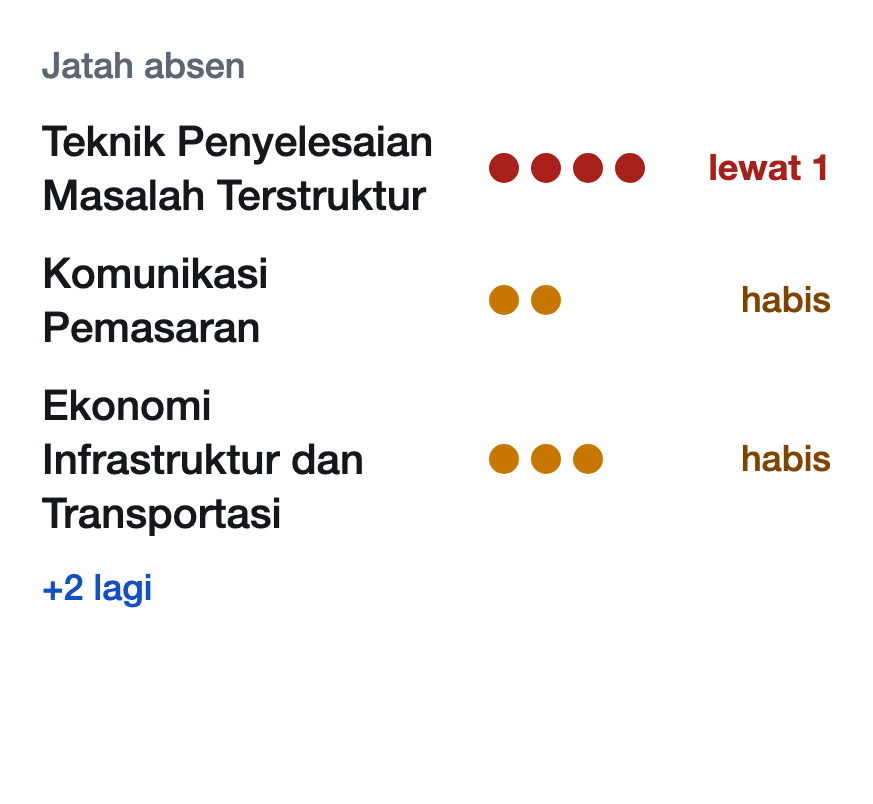
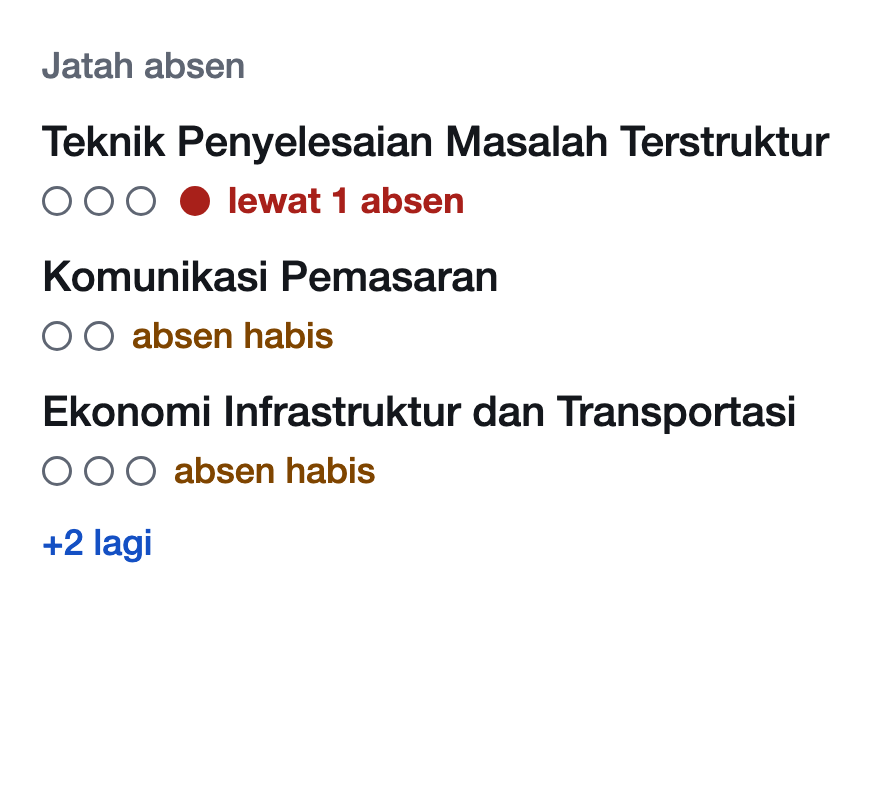
fix(widgets): Tenggat stops at three cells, every course keeps its row in Jatah absen, and the docs say seven
A Tenggat title that would be cut takes a second line where there is height left. Beside its dots a course's name keeps one line. The picker pictures are drawn again, and the decisions page states the one dot rule.

diff --git a/mobile/src/widget/views.tsx b/mobile/src/widget/views.tsx
@@ -77,6 +77,16 @@ export function DueView({ model, size, theme, lang }: { model: DueWidget; size: 
     space -= heightOf(row, most);
   }
   const left = model.rows.length - rows.length;
+  // Height left over goes to a title that would be cut: its second line.
+  const extra = new Set<DueRow>();
+  let spare = space - (left > 0 ? moreHeight : 0);
+  for (const row of rows) {
+    if (linesOf(row.title, 14 * scale, titleWidth) > linesFor(row, most) && spare >= LINE.small * scale) {
+      extra.add(row);
+      spare -= LINE.small * scale;
+    }
+  }
+  const shownLines = (row: DueRow) => linesFor(row, most) + (extra.has(row) ? 1 : 0);
   // Close is loud, far is quiet: amber within a day, the ink while it's a count of days, grey once it's only a date.
   const inkOf = (row: DueRow) => (row.soon || row.mark === "today" ? v.ambFg : v.fg);
   return (
@@ -90,9 +100,16 @@ export function DueView({ model, size, theme, lang }: { model: DueWidget; size: 
             accessibilityLabel={`${row.title}, ${row.name ?? row.code}, ${row.when}`}
             style={{ width: "match_parent", flexDirection: "row", alignItems: "center", flexGap: 8 }}
           >
-            <FlexWidget style={{ width: 4, height: heightOf(row, most) - 8, borderRadius: 2, backgroundColor: hex(courseInk(theme, row.tone)) }} />
+            <FlexWidget
+              style={{
+                width: 4,
+                height: heightOf(row, most) - 8 + (extra.has(row) ? LINE.small * scale : 0),
+                borderRadius: 2,
+                backgroundColor: hex(courseInk(theme, row.tone)),
+              }}
+            />
             <FlexWidget style={{ flex: 1, flexDirection: "column" }}>
-              <Text text={row.title} size="small" color={v.fg} weight="700" lines={linesFor(row, most)} />
+              <Text text={row.title} size="small" color={v.fg} weight="700" lines={shownLines(row)} />
               {wide ? <Text text={courseOf(row)} size="micro" color={v.muted} /> : <Text text={underOf(row)} size="micro" color={inkOf(row)} bold />}
             </FlexWidget>
             {wide ? (
@@ -151,7 +168,6 @@ function Dots({
     const used = past || index < (row.used ?? 0);
     return (
       <FlexWidget
-        // biome-ignore lint/suspicious/noArrayIndexKey: the dots are positions, nothing else tells them apart.
         key={index}
         style={{
           width: size,
@@ -194,19 +210,24 @@ export function AttendanceView({ model, size, theme, lang }: { model: Attendance
   // (The last line has no gap under it: 8 back.)
   const room = counted + 8;
   // Narrow (2 cells): the name over its dots and its word. Wider: the name, the dots in one column, the word at the end.
-  const narrow = size.width < 220;
+  const thin = size.width < 220;
   const drawn = (row: AttendanceRow) => row.allowed !== null && row.allowed + row.over <= MOST_DOTS && row.allowed + row.over > 0;
   const dotsWidth = Math.max(
     0,
     ...model.rows.filter(drawn).map((row) => ((row.allowed ?? 0) + row.over) * 14 - 4 + (row.over > 0 && (row.allowed ?? 0) > 0 ? OVER_GAP - 4 : 0)),
   );
   const wordWidth = Math.max(0, ...model.rows.map((row) => safeWidth(row.short, 12 * scale)));
-  const nameWidth = narrow ? size.width - 2 * PAD : size.width - 2 * PAD - dotsWidth - 10 - wordWidth - 10;
+  const beside = size.width - 2 * PAD - dotsWidth - 10 - wordWidth - 10;
+  // (Big text: the name's column would hold four letters, so the name goes over its dots as in two cells.)
+  const narrow = thin || beside < 96 * scale;
+  const nameWidth = narrow ? size.width - 2 * PAD : beside;
   // Names down the whole list (wrapped where one line doesn't hold it), or codes down the whole list: never a mix.
   // (The phone's text made big: two lines at most, where the estimate of a third is least sure.)
   const most = scale > 1 ? 2 : 3;
   const codes = model.rows.some((row) => courseLabel(row.name, row.code, 14 * scale, nameWidth, most).text !== (row.name ?? row.code));
-  const labelOf = (row: AttendanceRow) => (codes ? { text: row.code, lines: 1 } : courseLabel(row.name, row.code, 14 * scale, nameWidth, most));
+  // Beside the dots, a name that doesn't fit whole keeps one line and ends on "…": every course still gets its row.
+  const labelOf = (row: AttendanceRow) =>
+    codes ? { text: narrow ? row.code : (row.name ?? row.code), lines: 1 } : courseLabel(row.name, row.code, 14 * scale, nameWidth, most);
   const heightOf = (row: AttendanceRow) => labelOf(row).lines * LINE.small * scale + (narrow ? LINE.micro * scale + 3 : 0) + 8;
   const moreHeight = (LINE.micro + 8) * scale;
   const rows: AttendanceRow[] = [];

diff --git a/test/mobile/widget-drawings.test.tsx b/test/mobile/widget-drawings.test.tsx
@@ -197,7 +197,7 @@ const RENDER: Record<string, { title: string; sizes: ReturnType<typeof phone>[];
   Now: { title: "Sekarang", sizes: [phone(2, 1), phone(4, 1), phone(4, 2), phone(4, 3)], first: "4×2" },
   Exam: { title: "Ujian", sizes: [phone(2, 1), phone(3, 1), phone(4, 1)], first: "2×1" },
   Today: { title: "Hari ini", sizes: [phone(2, 2), phone(3, 2), phone(4, 2)], first: "3×2" },
-  Due: { title: "Tenggat", sizes: [phone(2, 2), phone(3, 2), phone(4, 2)], first: "3×2" },
+  Due: { title: "Tenggat", sizes: [phone(2, 2), phone(3, 2)], first: "3×2" },
   Attendance: { title: "Jatah absen", sizes: [phone(2, 2), phone(3, 2), phone(4, 2)], first: "3×2" },
   Next: { title: "Kelas berikutnya", sizes: [phone(1, 1), phone(2, 1)], first: "1×1" },
   Course: { title: "Satu mata kuliah", sizes: [phone(3, 1), phone(3, 2)], first: "3×1" },

diff --git a/mobile/app.config.ts b/mobile/app.config.ts
@@ -59,7 +59,8 @@ const WIDGETS = [
     targetCellHeight: 2,
     minResizeWidth: "110dp",
     minResizeHeight: "110dp",
-    maxResizeWidth: "530dp",
+    // Three cells at most: wider, the list is the same rows with an empty middle.
+    maxResizeWidth: "320dp",
     maxResizeHeight: "280dp",
     resizeMode: "horizontal|vertical",
     updatePeriodMillis: HALF_HOUR,

diff --git a/mobile/qa/superapp-widgets.md b/mobile/qa/superapp-widgets.md
@@ -1,11 +1,11 @@
 # Home-screen widgets: what a student would put there
 
-Eight widgets, each answering one question at a glance, all drawn from what the app already saved (no new
+Seven widgets, each answering one question at a glance, all drawn from what the app already saved (no new
 requests, no new data). Declared natively in `mobile/app.config.ts`; drawn by `mobile/src/widget/`; picker pictures
 made by `mobile/scripts/make-widget-previews.mjs` (`assets/widget-preview-<name>.png`).
 
 Sizes are in launcher cells (w×h). "Min" is the smallest it can be made, "first" what it's placed at, "max" the
-largest. All eight resize both ways. Every tap below is a deep link the app already handles
+largest. All seven resize both ways. Every tap below is a deep link the app already handles
 (`edunexplus://…`, `src/nav.ts`), except Tandai Hadir (SIX's own page, through `check-in/<id>`) and Presensi
 (Edunex's page in the browser).
 
@@ -25,7 +25,7 @@ wrong.
 
 Where this section and the older ones below disagree, this one is right.
 
-**States that are true.** Signed out, empty and holiday are one layout on all eight (`StateCard` in `src/widget/view.tsx`,
+**States that are true.** Signed out, empty and holiday are one layout on all seven (`StateCard` in `src/widget/view.tsx`,
 fed by each model's `quiet`): the widget's own name, one sentence, one thing to tap in the only blue ("Masuk", "Buka
 Jadwal"). One cell: the sentence's two words ("Libur", "Belum masuk"). A holiday says "Libur". Offline is one line on
 every widget and size, "Tidak terhubung · data 08:12" (amber; `status.offline`), and "Sekarang" then draws no button:
@@ -53,7 +53,6 @@ figures (a class ending, a deadline passing or coming within the week, midnight)
 | Jatah absen (was "Kehadiran") | 2×2 | 3×2 | 4×3 | every course |
 | Ujian | 2×1 | 2×1 | 4×2 | the exams after the next |
 | Kelas berikutnya | 1×1 | 1×1 | 2×1 | the course's name and room |
-| Pintasan | 2×1 | 4×1 | 4×1 | (two tiles at 2×1) |
 | Satu mata kuliah | 3×1 | 3×1 | 4×2 | absences, then its next Task where the title fits whole |
 
 **Why the phone's "Hari ini" at 3×2 cut a name and showed one room.** The render drew 3×2 at 244 dp; the phone's is
@@ -72,7 +71,7 @@ the word. No tray behind the tiles, no red or amber tile.
 first size, light, an hour before the first class and with no read stamped, so nothing claims to be live.
 
 **Native this round (one commit):** the size caps and first sizes above, the picker's label "Jatah absen", new
-descriptions, and the eight preview pictures. The drawings don't depend on them.
+descriptions, and the seven preview pictures. The drawings don't depend on them.
 
 **The iPhone must mirror** (the model stays compatible: fields were only added): `quiet` on every model and
 `WidgetModel.quiet.now/today` (the shared state layout); `status` (no "Memperbarui…", `offline`); `WidgetClass.lead` and
@@ -88,7 +87,7 @@ Two shapes, and every widget is one of them:
   button when there's something to press: Sekarang, Ujian, Kelas berikutnya, Satu mata kuliah. The colour is the
   course tile's light ink (`courseBlock` in `src/widget/view.tsx`): white reads on every one at 4.5:1 or more.
 - **Many things are a short list on the widget's own surface** (white, one dark surface in dark), the time first and
-  a bar in each course's colour: Hari ini, Tenggat, Kehadiran. Pintasan is Beranda's solid service tiles.
+  a bar in each course's colour: Hari ini, Tenggat, Kehadiran.
 
 Rules they all follow:
 
@@ -110,7 +109,7 @@ opacity (a "soft white" is mixed into the course's colour as hex, `mix`); no tex
 estimated on the safe side, `linesOf`); a child isn't clipped to its parent's corners (a block inside the surface has
 its own corners and a 6 dp inset); `adjustsFontSizeToFit` only on the big figures.
 
-## The eight, size by size
+## The seven, size by size
 
 Sizes are this phone's (Samsung One UI, 4 across: a 4×2 measured 325×227 dp). Pictures of all of it:
 `node mobile/scripts/render-widgets.mjs <folder>` (below).
@@ -206,18 +205,13 @@ they read down the list like a chart.
   keeps its class: a cell has no room to say more, and the time is still true).
 - Model: `nextWidget(facts)` (now with the course's `name`, and `empty.short`).
 
-### 7. Pintasan (`Services`): "Take me straight to Jadwal, Tugas, Kuliah or Nilai"
+### Pintasan (`Services`): removed in round 4
 
-| Size | Shows |
-| --- | --- |
-| 2×1 (min) | Two solid tiles (Jadwal, Tugas), a white filled glyph, the word under each |
-| 4×1 (first) | All four: blue, orange, purple, green |
-| 2×2, 4×2 and up | All four as blocks that fill the widget, two by two, the glyph and the word inside each |
+Three blind judges, two rounds at 3–5: "a launcher folder already does this", "the app icon already does it". It is
+gone from `app.config.ts`, the model, the views and the tests; a Pintasan already placed goes blank after the update
+and is removed by hand. Anything about Pintasan elsewhere on this page is history.
 
-- Taps: each opens its tab or screen. One state: it says nothing that changes.
-- Model: `servicesWidget(facts)`.
-
-### 8. Satu mata kuliah (`Course`): "How is this one course going?"
+### 7. Satu mata kuliah (`Course`): "How is this one course going?"
 
 The whole widget in the course's colour.
 
@@ -277,7 +271,7 @@ remaking from these drawings in the next build.
   (`RNWidgetConfigurationActivity`, the screen registered with `registerWidgetConfigurationScreen`). Native, so it's
   in tonight: "Satu mata kuliah" uses it. `reconfigurable|configuration_optional` means Android 12+ doesn't ask on
   placing.
-- **Update period**: 30 minutes at least (the library clamps it). Kehadiran and Pintasan are 0: the app and the
+- **Update period**: 30 minutes at least (the library clamps it). Kehadiran is 0: the app and the
   background sync draw them when their data changes.
 - **"Add to home screen" from inside the app**: `requestWidgetPin` is in the library already, JavaScript only, if a
   screen wants to offer a widget later.
@@ -332,7 +326,7 @@ around the stall.
 
 ## How it was checked
 
-`test/mobile/widget-drawings.test.tsx` walks the real trees for all eight widgets, at 4–5 sizes each, light and
+`test/mobile/widget-drawings.test.tsx` walks the real trees for all seven widgets, at 4–5 sizes each, light and
 dark, at text size 1 and 1.3. It checks every tap (a deep link into the app, or an https page), the exact target of
 each row, that Sekarang says each thing once and names its course whole, and that Kehadiran draws one mark per
 absence. Text size 1.3 is planned for (line heights grow with it, so fewer rows fit).

diff --git a/mobile/qa/superapp-decisions.md b/mobile/qa/superapp-decisions.md
@@ -86,7 +86,7 @@ These add to, and where they differ replace, what's above.
 | What | Decision |
 | --- | --- |
 | Rethink, don't patch | Where a judge preferred last round's screen (Beranda's timeline row, Jadwal, Tugas's order, Kuliah's rows, Materi, search's rows), the screen takes what last round did right and what this round fixed: both, not one |
-| Absences, everywhere | One reading of a course's absences: **dots** (one per allowed absence; used ones filled in the state's colour, the rest outlined; an extra red one for each over the limit) and **one short label** ("sisa 1", "habis", "lewat 1"). Never the dots plus a count plus a sentence. Beranda's strip counts **every course with no absence left** (at the limit or past it), its label has the noun ("absen habis") and is true of each counted, red when any is past |
+| Absences, everywhere | One reading of a course's absences: **dots** (one per allowed absence: **full**, in the ink of the surface it sits on, while it is still left, **a ring** once it is used, never green or amber; one extra **red** dot, set a little apart, for each over the limit: "full = left, ring = used, red = over", the same in the app and on the home-screen widgets) and **one short label** with its noun ("sisa 1 absen", "absen habis", "lewat 1 absen"). Never the dots plus a count plus a sentence. Beranda's strip counts **every course with no absence left** (at the limit or past it), its label has the noun ("absen habis") and is true of each counted, red when any is past |
 | A changed class | Says what changed in words and times that agree with Notifikasi: "Selesai 10:00 (tadinya 09:30)". Never "08:00 → 08:00" |
 | Jadwal's blocks | A block's height is its class's time, always. Names whole: clashing classes overlap with an offset (the later one indented over the earlier) instead of splitting the width in half, so each keeps room for its name; the clash is marked once on the pair |
 | What leads | Tugas leads with the soonest thing of any kind; a course's page is titled by the course's **name** (the code quiet); a list row leads with the course's own glyph in its colour wherever a course is named |

diff --git a/mobile/PROGRESS.md b/mobile/PROGRESS.md
@@ -14,7 +14,7 @@ Branch: `mobile`. App: `mobile/` (Expo SDK 58, React Native 0.88, Expo Router, d
     colour with a white glyph, the last "Lainnya", which opens Semua layanan (every service in three named groups). Materi
     and Ujian are new views of data the app already read. One white page and flat lists in both themes; a course is its own
     glyph in its colour; a course's absences are dots and one short label. One icon family, Fluent's, filled where the Student
-    is. The first minute is "two doors, one room" (`src/shell/first-minute/`). Eight Android widgets, two iPhone widgets and a
+    is. The first minute is "two doors, one room" (`src/shell/first-minute/`). Seven Android widgets, two iPhone widgets and a
     Live Activity from one model. Touch and change answer in the frame they land (`src/ui/moves.tsx`).
   - **Where the numbers and verdicts live.** `mobile/qa/superapp-board.md`: `main`'s baseline, every council with its scores
     and what kept it from the top, the journeys, the widgets, the first minute's rounds. The binding choices:
